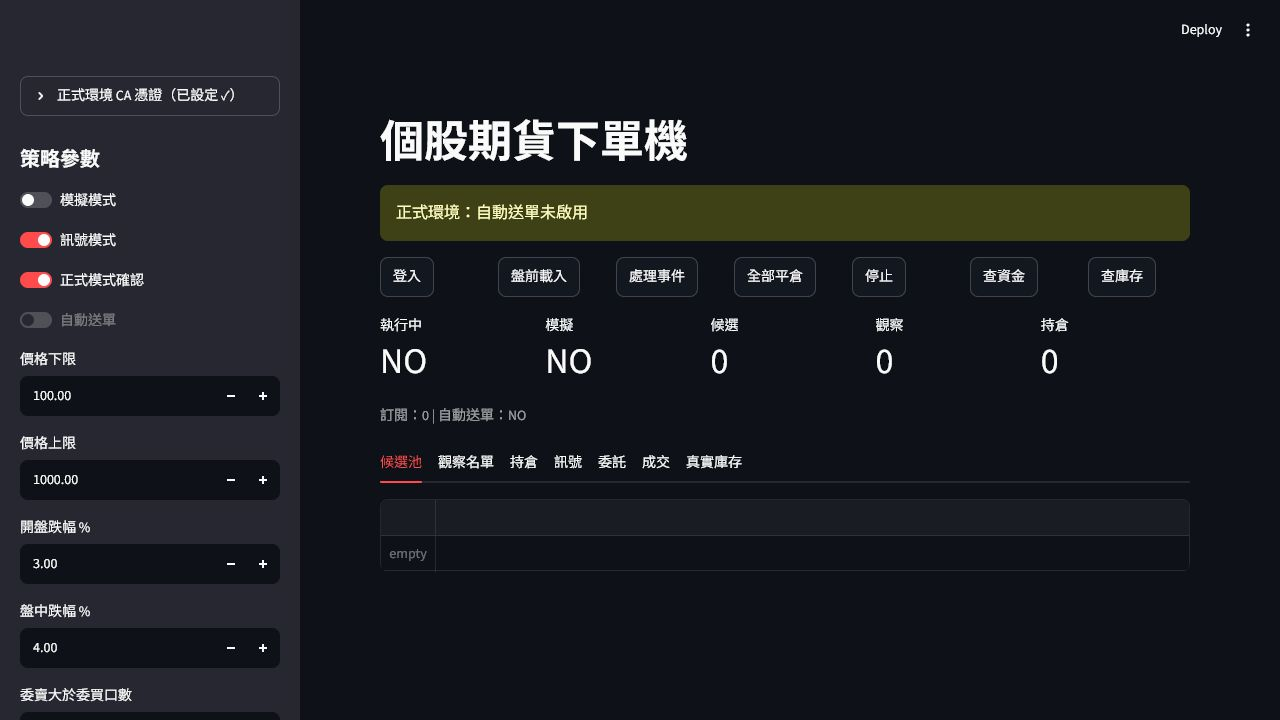
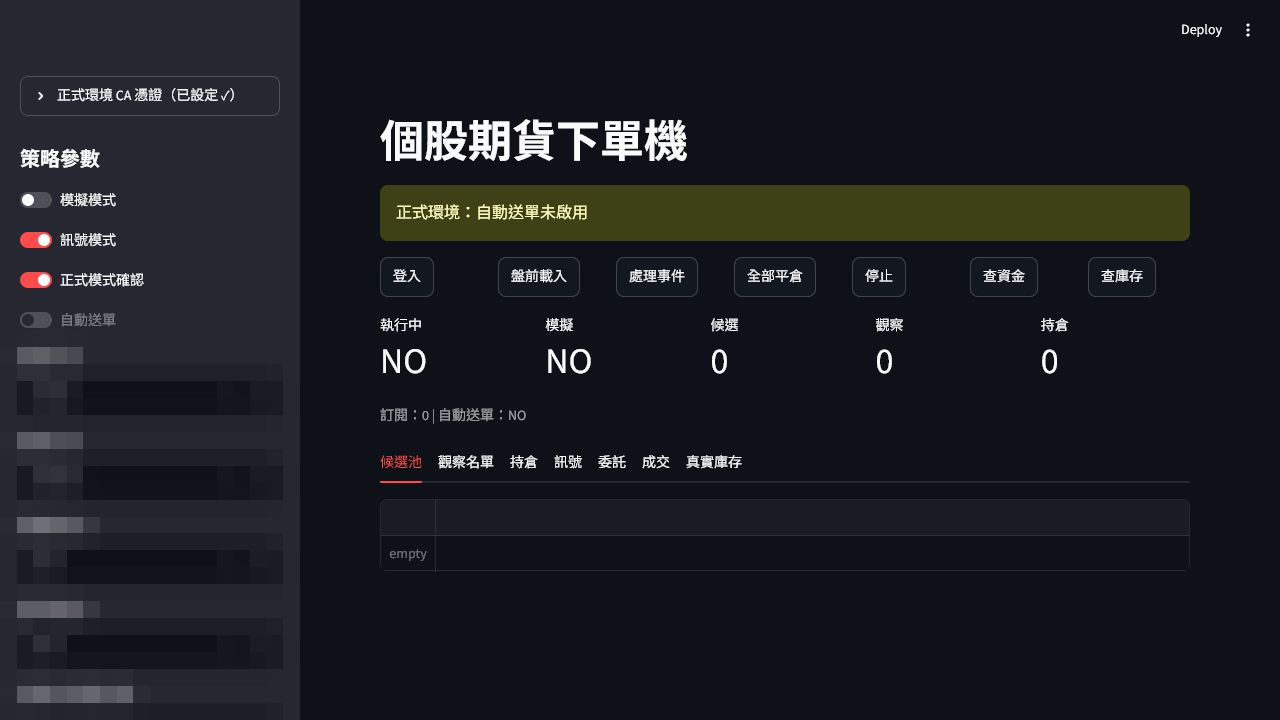
Redact strategy parameter values in portfolio screenshot
Mosaic the price-bound and volatility-threshold values in the stock
futures order system screenshot instead of showing real strategy
config publicly. Also drop "週線反彈" from the Backtest Studio
feature list per request.

diff --git a/app/page.tsx b/app/page.tsx
@@ -1,6 +1,6 @@
 const portfolio = [
   { tag: "CRYPTO / RUST", title: "Alpharnold Quant Trading System", description: "面向 Binance Futures 的多策略量化交易引擎，涵蓋即時行情、策略執行、下單、狀態回滾與部位對帳。", features: ["多幣種、多策略併行", "斷線與失敗狀態回復", "交易所倉位自動對帳"], accent: "lime", image: "/portfolio/alpharnold-system.png", alt: "Alpharnold 量化交易引擎系統架構與執行狀態展示" },
-  { tag: "BACKTEST / GPU + CPU", title: "Backtest Studio", description: "支援加密貨幣與台指期的桌面回測平台，讓使用者自行調整參數、比較策略，並輸出績效與交易明細。", features: ["突破、均線、週線反彈", "CPU / GPU 參數最佳化", "成本、滑價與轉倉模型"], accent: "blue", image: "/portfolio/backtest-studio.png", alt: "Backtest Studio 實際授權登入與回測工作台畫面" },
+  { tag: "BACKTEST / GPU + CPU", title: "Backtest Studio", description: "支援加密貨幣與台指期的桌面回測平台，讓使用者自行調整參數、比較策略，並輸出績效與交易明細。", features: ["突破、均線", "CPU / GPU 參數最佳化", "成本、滑價與轉倉模型"], accent: "blue", image: "/portfolio/backtest-studio.png", alt: "Backtest Studio 實際授權登入與回測工作台畫面" },
   { tag: "STOCK FUTURES / SHIOAJI", title: "個股期貨下單機", description: "串接永豐金 Shioaji 的個股期貨交易系統，具備盤前篩選、即時訊號、風控、委託狀態與持倉管理。", features: ["網頁化監控與參數調整", "模擬、訊號、正式下單分級", "委託回報與風控狀態機"], accent: "amber", image: "/portfolio/api-trade.png", alt: "個股期貨下單機實際策略參數與監控介面" },
 ];
 

diff --git a/docs/index.html b/docs/index.html
@@ -1,1 +1,1 @@
-<!DOCTYPE html><html lang="zh-Hant"><head><meta charSet="utf-8"/><meta name="viewport" content="width=device-width, initial-scale=1"/><link rel="preload" href="/logo.png" as="image"/><link rel="preload" href="/portfolio/alpharnold-system.png" as="image"/><link rel="preload" href="/portfolio/backtest-studio.png" as="image"/><link rel="preload" href="/portfolio/api-trade.png" as="image"/><link rel="stylesheet" href="/assets/index-CNmN1kDn.css" data-rsc-css-href="/assets/index-CNmN1kDn.css" data-precedence="vite-rsc/importer-resources"/><title>諾秋工作室｜下單機與策略回測程式</title><meta name="description" content="專注股票、期貨、加密貨幣的自動下單機、策略回測與客製化量化交易系統開發。"/><link rel="shortcut icon" href="/favicon.ico"/><link rel="icon" href="/favicon.ico"/></head><body><main><nav class="nav shell" aria-label="主要導覽"><a class="brand" href="#top" aria-label="諾秋工作室首頁"><img class="brand-mark" src="/logo.png" alt="諾秋工作室標誌"/><span><strong>諾秋工作室</strong><small>TRADE SYSTEMS</small></span></a><div class="nav-links"><a href="#services">服務</a><a href="#work">作品</a><a href="#pricing">報價</a><a href="#warranty">保固</a></div><a class="nav-cta" href="mailto:[email redacted]?subject=交易系統專案諮詢">討論專案 <span aria-hidden="true">↗</span></a></nav><header class="hero shell" id="top"><div class="hero-copy"><p class="eyebrow"><span></span> 股票・期貨・加密貨幣</p><h1>把交易策略，<br/>做成<span>真正能跑</span>的系統。</h1><p class="hero-lead">我們是一支專注於下單機與回測程式的開發團隊。從策略規格、歷史驗證、風控，到 API 串接與正式執行，替你的交易流程打造可靠工具。</p><div class="hero-actions"><a class="button primary" href="mailto:[email redacted]?subject=交易系統專案諮詢">開始討論需求 <span>→</span></a><a class="button secondary" href="#work">查看實作案例</a></div><div class="market-list" aria-label="支援市場"><span>TAIWAN STOCKS</span><i></i><span>FUTURES</span><i></i><span>CRYPTO</span></div></div><div class="terminal" aria-label="交易系統示意面板"><div class="terminal-top"><div class="window-dots"><i></i><i></i><i></i></div><span>strategy_engine / live</span><b>CONNECTED</b></div><div class="ticker-row"><div><small>MARKET</small><strong>TXF</strong></div><div><small>LAST</small><strong>23,842</strong></div><div><small>STATUS</small><strong class="positive">RUNNING</strong></div></div><div class="chart" aria-hidden="true"><div class="grid-lines"></div><div class="bars"><i style="height:36px" class="down"></i><i style="height:52px" class="up"></i><i style="height:43px" class="up"></i><i style="height:68px" class="up"></i><i style="height:57px" class="down"></i><i style="height:75px" class="up"></i><i style="height:61px" class="up"></i><i style="height:86px" class="up"></i><i style="height:70px" class="down"></i><i style="height:92px" class="up"></i><i style="height:78px" class="up"></i><i style="height:105px" class="up"></i><i style="height:94px" class="down"></i><i style="height:118px" class="up"></i><i style="height:109px" class="up"></i><i style="height:132px" class="up"></i><i style="height:120px" class="down"></i><i style="height:146px" class="up"></i></div><span class="chart-label one">ENTRY</span><span class="chart-label two">TRAILING +2.8%</span></div><div class="terminal-log"><p><span>09:03:18</span> signal validated <b>LONG</b></p><p><span>09:03:19</span> risk guard <b>PASS</b></p><p><span>09:03:20</span> order status <b>FILLED</b></p></div></div></header><section class="proof-strip"><div class="shell proof-grid"><div><strong>3</strong><span>實作系統案例</span></div><div><strong>3</strong><span>主要市場類型</span></div><div><strong>3 個月</strong><span>程式錯誤保固</span></div><div><strong>客製</strong><span>策略與執行流程</span></div></div></section><section class="section shell" id="services"><div class="section-heading split"><div><p class="kicker">WHAT WE BUILD</p><h2>從想法到可執行的<br/>交易工具</h2></div><p>不販售罐頭策略。我們根據你的規則、資料與交易環境，打造能夠驗證、監控、維護的專屬系統。</p></div><div class="service-grid"><article><span class="service-no">01</span><div class="service-icon">ORD</div><h3>自動下單機</h3><p>串接券商或交易所 API，處理即時行情、進出場、委託回報、持倉同步、斷線重連與風控。</p><ul><li>股票 / 期貨 / 加密貨幣</li><li>模擬與正式環境</li><li>監控面板與通知</li></ul></article><article><span class="service-no">02</span><div class="service-icon">BT</div><h3>策略回測程式</h3><p>將策略規則轉成可重複驗證的回測引擎，納入手續費、滑價、口數與市場制度。</p><ul><li>單組參數與最佳化</li><li>績效、明細與圖表</li><li>自備資料格式整合</li></ul></article><article><span class="service-no">03</span><div class="service-icon">API</div><h3>客製化策略整合</h3><p>已有 TradingView、Python、Excel 或人工規則？我們協助定義訊號、補齊風控並接上下單流程。</p><ul><li>既有策略程式化</li><li>多策略與多商品</li><li>既有系統擴充</li></ul></article></div></section><section class="work-section" id="work"><div class="shell section"><div class="section-heading"><p class="kicker">SELECTED WORK</p><h2>已落地的交易系統</h2><p>不是概念展示，而是針對真實市場流程設計的完整作品。</p></div><div class="portfolio-list"><article class="portfolio-card lime"><div class="portfolio-index">0<!-- -->1</div><div class="portfolio-visual"><img src="/portfolio/alpharnold-system.png" alt="Alpharnold 量化交易引擎系統架構與執行狀態展示"/></div><div class="portfolio-main"><span>CRYPTO / RUST</span><h3>Alpharnold Quant Trading System</h3><p>面向 Binance Futures 的多策略量化交易引擎，涵蓋即時行情、策略執行、下單、狀態回滾與部位對帳。</p><ul><li>多幣種、多策略併行</li><li>斷線與失敗狀態回復</li><li>交易所倉位自動對帳</li></ul></div></article><article class="portfolio-card blue"><div class="portfolio-index">0<!-- -->2</div><div class="portfolio-visual"><img src="/portfolio/backtest-studio.png" alt="Backtest Studio 實際授權登入與回測工作台畫面"/></div><div class="portfolio-main"><span>BACKTEST / GPU + CPU</span><h3>Backtest Studio</h3><p>支援加密貨幣與台指期的桌面回測平台，讓使用者自行調整參數、比較策略，並輸出績效與交易明細。</p><ul><li>突破、均線、週線反彈</li><li>CPU / GPU 參數最佳化</li><li>成本、滑價與轉倉模型</li></ul></div></article><article class="portfolio-card amber"><div class="portfolio-index">0<!-- -->3</div><div class="portfolio-visual"><img src="/portfolio/api-trade.png" alt="個股期貨下單機實際策略參數與監控介面"/></div><div class="portfolio-main"><span>STOCK FUTURES / SHIOAJI</span><h3>個股期貨下單機</h3><p>串接永豐金 Shioaji 的個股期貨交易系統，具備盤前篩選、即時訊號、風控、委託狀態與持倉管理。</p><ul><li>網頁化監控與參數調整</li><li>模擬、訊號、正式下單分級</li><li>委託回報與風控狀態機</li></ul></div></article></div></div></section><section class="section shell" id="pricing"><div class="section-heading split"><div><p class="kicker">CLEAR PRICING</p><h2>報價簡單，範圍先說清楚</h2></div><p>實際金額依資料來源、API、介面與部署難度確認；以下為標準專案的基本計價方式。</p></div><div class="pricing-wrap"><div class="price-card featured"><p>PROJECT START</p><h3><small>NT$</small>20,000</h3><span>專案啟動費</span><ul><li>需求與策略規格拆解</li><li>系統基礎架構</li><li>操作介面與交付說明</li><li>三個月程式錯誤保固</li></ul></div><div class="price-card"><p>PER STRATEGY</p><h3><small>+ NT$</small>5,000</h3><span>每一條策略</span><p class="price-note">一條策略的專案起價為 <strong>NT$25,000</strong>。多一條策略，再加 NT$5,000。</p></div><div class="price-card"><p>AFTER WARRANTY</p><h3><small>NT$</small>1,000</h3><span>每月維護費</span><p class="price-note">三個月保固到期後開始計收，涵蓋既有系統的一般維護與運行協助；新增功能另行報價。</p></div></div><p class="pricing-example"><b>報價範例</b> 啟動費 NT$20,000 ＋ 2 條策略 NT$10,000 ＝ <strong>NT$30,000</strong></p></section><section class="warranty-section" id="warranty"><div class="shell section warranty-grid"><div class="warranty-copy"><p class="kicker">WARRANTY POLICY</p><h2>保固的是程式品質，<br/>策略調整則清楚計價。</h2><p>保固期自專案驗收交付日起算三個月。為避免認知落差，以下範圍會寫入專案確認內容。</p><a href="mailto:[email redacted]?subject=索取交易系統規格與保固說明">索取完整專案說明 <span>→</span></a></div><div class="warranty-card"><div class="warranty-row included"><span>✓</span><div><h3>保固內免費修復</h3><p>在已確認的功能範圍、操作方式與執行環境下，可重現且由程式本身造成的錯誤、異常或與驗收規格不符。</p></div></div><div class="warranty-row change"><span>↻</span><div><h3>策略邏輯改動</h3><p>保固期內每次 <b>NT$1,000</b>；保固期外每次 <b>NT$3,000</b>。每次改動的範圍與驗收方式於施工前確認。</p></div></div><div class="warranty-row excluded"><span>—</span><div><h3>不屬於程式錯誤保固</h3><p>新增功能或商品、第三方 API／券商／交易所規格變更、資料品質、網路與主機故障、帳號權限、非約定環境或不當操作所造成的問題，另行評估報價。</p></div></div><div class="warranty-row risk"><span>!</span><div><h3>交易風險聲明</h3><p>系統開發與回測結果不代表獲利保證。實盤交易仍可能受滑價、流動性、斷線與市場波動影響；策略與交易決策由客戶自行負責。</p></div></div></div></div></section><section class="section shell process-section"><div class="section-heading"><p class="kicker">HOW WE WORK</p><h2>四步驟，讓需求可驗收</h2></div><div class="process-grid"><article><span>01</span><h3>需求拆解</h3><p>確認市場、券商或交易所、資料來源、進出場邏輯與執行環境。</p></article><article><span>02</span><h3>規格與報價</h3><p>把策略條件寫成可驗收規格，列出策略數量、系統範圍與交付內容。</p></article><article><span>03</span><h3>開發與模擬</h3><p>先完成資料、回測或模擬下單，逐步驗證訊號、成本與風險限制。</p></article><article><span>04</span><h3>交付與保固</h3><p>完成操作說明與驗收；交付日起提供三個月程式錯誤保固。</p></article></div></section><section class="cta-section"><div class="shell cta-inner"><div><p class="kicker">LET&#x27;S BUILD</p><h2>你有策略，我們把它變成系統。</h2><p>來信簡述交易市場、策略數量、資料來源與希望的執行方式，我們會協助整理下一步。</p></div><div class="contact-actions"><a class="button primary" href="mailto:[email redacted]?subject=交易系統專案諮詢">[email redacted] <span>↗</span></a><a href="tel:[phone redacted]">[phone redacted]</a><small>服務時間：週一至週日 07:00–24:00</small></div></div></section><footer class="footer shell"><div class="brand"><img class="brand-mark" src="/logo.png" alt="諾秋工作室標誌"/><span><strong>諾秋工作室</strong><small>NORDCHIOU STUDIO</small></span></div><p>統一編號 [phone redacted]</p><p>© 2026 諾秋工作室. All rights reserved.</p></footer></main></body></html>
+<!DOCTYPE html><html lang="zh-Hant"><head><meta charSet="utf-8"/><meta name="viewport" content="width=device-width, initial-scale=1"/><link rel="preload" href="/logo.png" as="image"/><link rel="preload" href="/portfolio/alpharnold-system.png" as="image"/><link rel="preload" href="/portfolio/backtest-studio.png" as="image"/><link rel="preload" href="/portfolio/api-trade.png" as="image"/><link rel="stylesheet" href="/assets/index-CNmN1kDn.css" data-rsc-css-href="/assets/index-CNmN1kDn.css" data-precedence="vite-rsc/importer-resources"/><title>諾秋工作室｜下單機與策略回測程式</title><meta name="description" content="專注股票、期貨、加密貨幣的自動下單機、策略回測與客製化量化交易系統開發。"/><link rel="shortcut icon" href="/favicon.ico"/><link rel="icon" href="/favicon.ico"/></head><body><main><nav class="nav shell" aria-label="主要導覽"><a class="brand" href="#top" aria-label="諾秋工作室首頁"><img class="brand-mark" src="/logo.png" alt="諾秋工作室標誌"/><span><strong>諾秋工作室</strong><small>TRADE SYSTEMS</small></span></a><div class="nav-links"><a href="#services">服務</a><a href="#work">作品</a><a href="#pricing">報價</a><a href="#warranty">保固</a></div><a class="nav-cta" href="mailto:[email redacted]?subject=交易系統專案諮詢">討論專案 <span aria-hidden="true">↗</span></a></nav><header class="hero shell" id="top"><div class="hero-copy"><p class="eyebrow"><span></span> 股票・期貨・加密貨幣</p><h1>把交易策略，<br/>做成<span>真正能跑</span>的系統。</h1><p class="hero-lead">我們是一支專注於下單機與回測程式的開發團隊。從策略規格、歷史驗證、風控，到 API 串接與正式執行，替你的交易流程打造可靠工具。</p><div class="hero-actions"><a class="button primary" href="mailto:[email redacted]?subject=交易系統專案諮詢">開始討論需求 <span>→</span></a><a class="button secondary" href="#work">查看實作案例</a></div><div class="market-list" aria-label="支援市場"><span>TAIWAN STOCKS</span><i></i><span>FUTURES</span><i></i><span>CRYPTO</span></div></div><div class="terminal" aria-label="交易系統示意面板"><div class="terminal-top"><div class="window-dots"><i></i><i></i><i></i></div><span>strategy_engine / live</span><b>CONNECTED</b></div><div class="ticker-row"><div><small>MARKET</small><strong>TXF</strong></div><div><small>LAST</small><strong>23,842</strong></div><div><small>STATUS</small><strong class="positive">RUNNING</strong></div></div><div class="chart" aria-hidden="true"><div class="grid-lines"></div><div class="bars"><i style="height:36px" class="down"></i><i style="height:52px" class="up"></i><i style="height:43px" class="up"></i><i style="height:68px" class="up"></i><i style="height:57px" class="down"></i><i style="height:75px" class="up"></i><i style="height:61px" class="up"></i><i style="height:86px" class="up"></i><i style="height:70px" class="down"></i><i style="height:92px" class="up"></i><i style="height:78px" class="up"></i><i style="height:105px" class="up"></i><i style="height:94px" class="down"></i><i style="height:118px" class="up"></i><i style="height:109px" class="up"></i><i style="height:132px" class="up"></i><i style="height:120px" class="down"></i><i style="height:146px" class="up"></i></div><span class="chart-label one">ENTRY</span><span class="chart-label two">TRAILING +2.8%</span></div><div class="terminal-log"><p><span>09:03:18</span> signal validated <b>LONG</b></p><p><span>09:03:19</span> risk guard <b>PASS</b></p><p><span>09:03:20</span> order status <b>FILLED</b></p></div></div></header><section class="proof-strip"><div class="shell proof-grid"><div><strong>3</strong><span>實作系統案例</span></div><div><strong>3</strong><span>主要市場類型</span></div><div><strong>3 個月</strong><span>程式錯誤保固</span></div><div><strong>客製</strong><span>策略與執行流程</span></div></div></section><section class="section shell" id="services"><div class="section-heading split"><div><p class="kicker">WHAT WE BUILD</p><h2>從想法到可執行的<br/>交易工具</h2></div><p>不販售罐頭策略。我們根據你的規則、資料與交易環境，打造能夠驗證、監控、維護的專屬系統。</p></div><div class="service-grid"><article><span class="service-no">01</span><div class="service-icon">ORD</div><h3>自動下單機</h3><p>串接券商或交易所 API，處理即時行情、進出場、委託回報、持倉同步、斷線重連與風控。</p><ul><li>股票 / 期貨 / 加密貨幣</li><li>模擬與正式環境</li><li>監控面板與通知</li></ul></article><article><span class="service-no">02</span><div class="service-icon">BT</div><h3>策略回測程式</h3><p>將策略規則轉成可重複驗證的回測引擎，納入手續費、滑價、口數與市場制度。</p><ul><li>單組參數與最佳化</li><li>績效、明細與圖表</li><li>自備資料格式整合</li></ul></article><article><span class="service-no">03</span><div class="service-icon">API</div><h3>客製化策略整合</h3><p>已有 TradingView、Python、Excel 或人工規則？我們協助定義訊號、補齊風控並接上下單流程。</p><ul><li>既有策略程式化</li><li>多策略與多商品</li><li>既有系統擴充</li></ul></article></div></section><section class="work-section" id="work"><div class="shell section"><div class="section-heading"><p class="kicker">SELECTED WORK</p><h2>已落地的交易系統</h2><p>不是概念展示，而是針對真實市場流程設計的完整作品。</p></div><div class="portfolio-list"><article class="portfolio-card lime"><div class="portfolio-index">0<!-- -->1</div><div class="portfolio-visual"><img src="/portfolio/alpharnold-system.png" alt="Alpharnold 量化交易引擎系統架構與執行狀態展示"/></div><div class="portfolio-main"><span>CRYPTO / RUST</span><h3>Alpharnold Quant Trading System</h3><p>面向 Binance Futures 的多策略量化交易引擎，涵蓋即時行情、策略執行、下單、狀態回滾與部位對帳。</p><ul><li>多幣種、多策略併行</li><li>斷線與失敗狀態回復</li><li>交易所倉位自動對帳</li></ul></div></article><article class="portfolio-card blue"><div class="portfolio-index">0<!-- -->2</div><div class="portfolio-visual"><img src="/portfolio/backtest-studio.png" alt="Backtest Studio 實際授權登入與回測工作台畫面"/></div><div class="portfolio-main"><span>BACKTEST / GPU + CPU</span><h3>Backtest Studio</h3><p>支援加密貨幣與台指期的桌面回測平台，讓使用者自行調整參數、比較策略，並輸出績效與交易明細。</p><ul><li>突破、均線</li><li>CPU / GPU 參數最佳化</li><li>成本、滑價與轉倉模型</li></ul></div></article><article class="portfolio-card amber"><div class="portfolio-index">0<!-- -->3</div><div class="portfolio-visual"><img src="/portfolio/api-trade.png" alt="個股期貨下單機實際策略參數與監控介面"/></div><div class="portfolio-main"><span>STOCK FUTURES / SHIOAJI</span><h3>個股期貨下單機</h3><p>串接永豐金 Shioaji 的個股期貨交易系統，具備盤前篩選、即時訊號、風控、委託狀態與持倉管理。</p><ul><li>網頁化監控與參數調整</li><li>模擬、訊號、正式下單分級</li><li>委託回報與風控狀態機</li></ul></div></article></div></div></section><section class="section shell" id="pricing"><div class="section-heading split"><div><p class="kicker">CLEAR PRICING</p><h2>報價簡單，範圍先說清楚</h2></div><p>實際金額依資料來源、API、介面與部署難度確認；以下為標準專案的基本計價方式。</p></div><div class="pricing-wrap"><div class="price-card featured"><p>PROJECT START</p><h3><small>NT$</small>20,000</h3><span>專案啟動費</span><ul><li>需求與策略規格拆解</li><li>系統基礎架構</li><li>操作介面與交付說明</li><li>三個月程式錯誤保固</li></ul></div><div class="price-card"><p>PER STRATEGY</p><h3><small>+ NT$</small>5,000</h3><span>每一條策略</span><p class="price-note">一條策略的專案起價為 <strong>NT$25,000</strong>。多一條策略，再加 NT$5,000。</p></div><div class="price-card"><p>AFTER WARRANTY</p><h3><small>NT$</small>1,000</h3><span>每月維護費</span><p class="price-note">三個月保固到期後開始計收，涵蓋既有系統的一般維護與運行協助；新增功能另行報價。</p></div></div><p class="pricing-example"><b>報價範例</b> 啟動費 NT$20,000 ＋ 2 條策略 NT$10,000 ＝ <strong>NT$30,000</strong></p></section><section class="warranty-section" id="warranty"><div class="shell section warranty-grid"><div class="warranty-copy"><p class="kicker">WARRANTY POLICY</p><h2>保固的是程式品質，<br/>策略調整則清楚計價。</h2><p>保固期自專案驗收交付日起算三個月。為避免認知落差，以下範圍會寫入專案確認內容。</p><a href="mailto:[email redacted]?subject=索取交易系統規格與保固說明">索取完整專案說明 <span>→</span></a></div><div class="warranty-card"><div class="warranty-row included"><span>✓</span><div><h3>保固內免費修復</h3><p>在已確認的功能範圍、操作方式與執行環境下，可重現且由程式本身造成的錯誤、異常或與驗收規格不符。</p></div></div><div class="warranty-row change"><span>↻</span><div><h3>策略邏輯改動</h3><p>保固期內每次 <b>NT$1,000</b>；保固期外每次 <b>NT$3,000</b>。每次改動的範圍與驗收方式於施工前確認。</p></div></div><div class="warranty-row excluded"><span>—</span><div><h3>不屬於程式錯誤保固</h3><p>新增功能或商品、第三方 API／券商／交易所規格變更、資料品質、網路與主機故障、帳號權限、非約定環境或不當操作所造成的問題，另行評估報價。</p></div></div><div class="warranty-row risk"><span>!</span><div><h3>交易風險聲明</h3><p>系統開發與回測結果不代表獲利保證。實盤交易仍可能受滑價、流動性、斷線與市場波動影響；策略與交易決策由客戶自行負責。</p></div></div></div></div></section><section class="section shell process-section"><div class="section-heading"><p class="kicker">HOW WE WORK</p><h2>四步驟，讓需求可驗收</h2></div><div class="process-grid"><article><span>01</span><h3>需求拆解</h3><p>確認市場、券商或交易所、資料來源、進出場邏輯與執行環境。</p></article><article><span>02</span><h3>規格與報價</h3><p>把策略條件寫成可驗收規格，列出策略數量、系統範圍與交付內容。</p></article><article><span>03</span><h3>開發與模擬</h3><p>先完成資料、回測或模擬下單，逐步驗證訊號、成本與風險限制。</p></article><article><span>04</span><h3>交付與保固</h3><p>完成操作說明與驗收；交付日起提供三個月程式錯誤保固。</p></article></div></section><section class="cta-section"><div class="shell cta-inner"><div><p class="kicker">LET&#x27;S BUILD</p><h2>你有策略，我們把它變成系統。</h2><p>來信簡述交易市場、策略數量、資料來源與希望的執行方式，我們會協助整理下一步。</p></div><div class="contact-actions"><a class="button primary" href="mailto:[email redacted]?subject=交易系統專案諮詢">[email redacted] <span>↗</span></a><a href="tel:[phone redacted]">[phone redacted]</a><small>服務時間：週一至週日 07:00–24:00</small></div></div></section><footer class="footer shell"><div class="brand"><img class="brand-mark" src="/logo.png" alt="諾秋工作室標誌"/><span><strong>諾秋工作室</strong><small>NORDCHIOU STUDIO</small></span></div><p>統一編號 [phone redacted]</p><p>© 2026 諾秋工作室. All rights reserved.</p></footer></main></body></html>